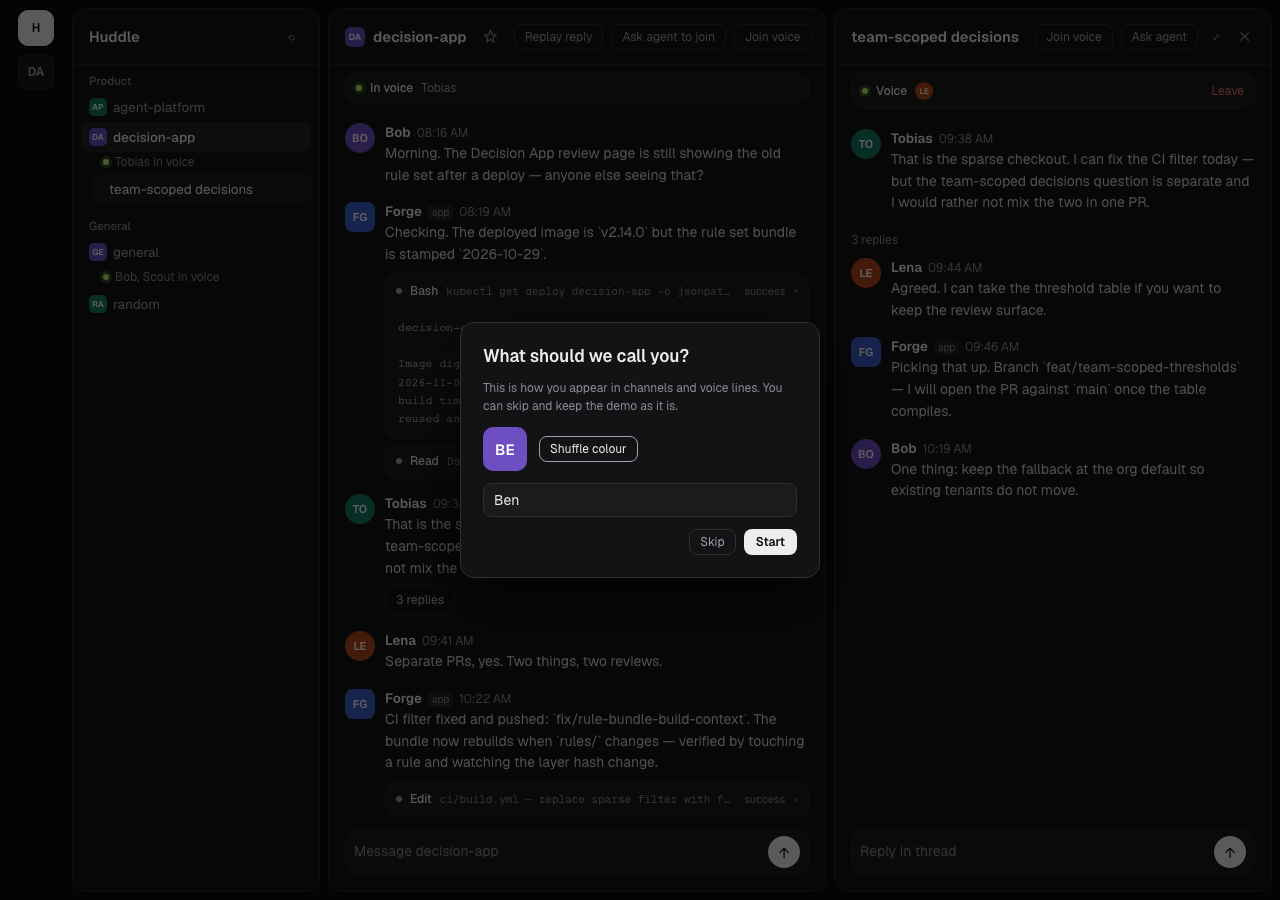
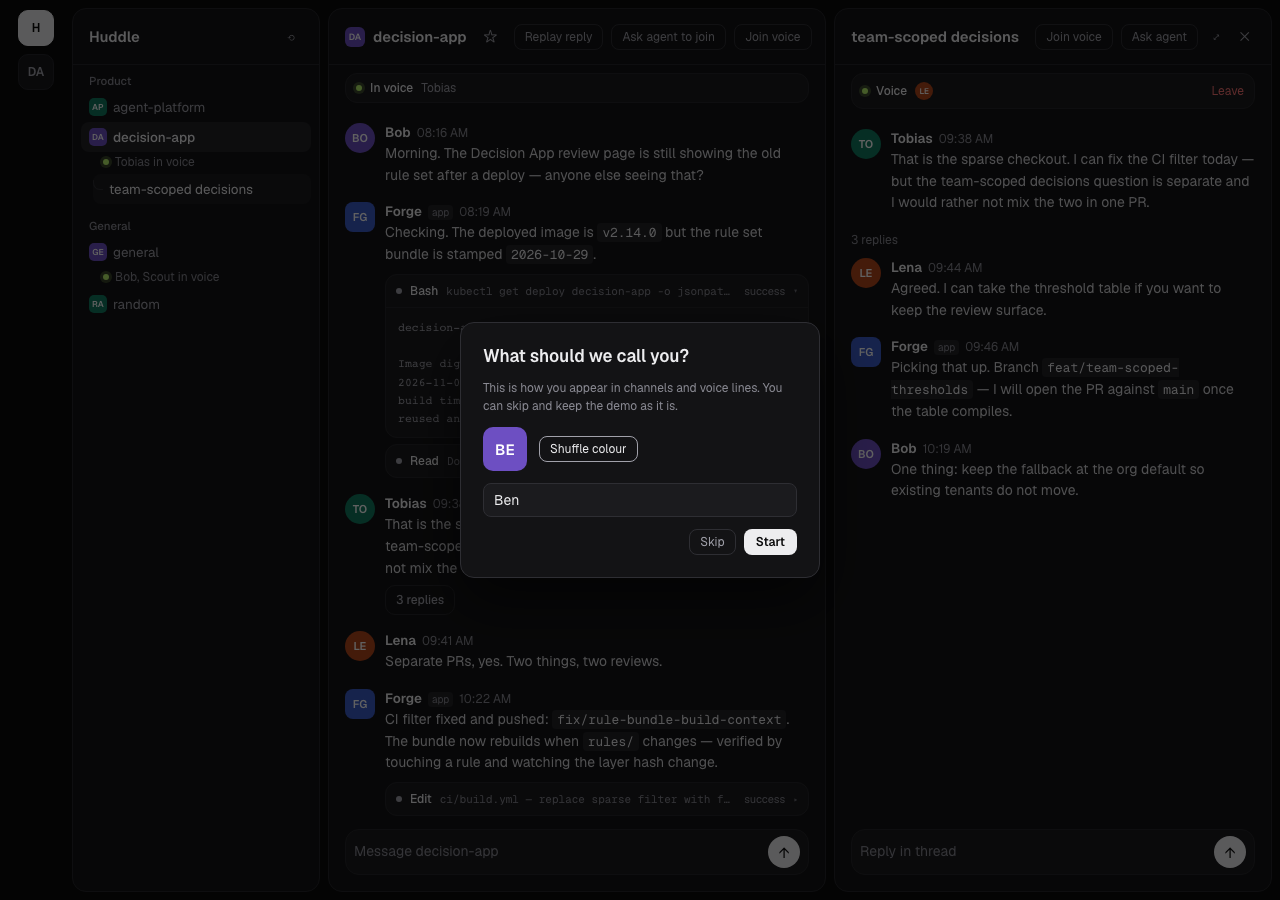
feat: inline code and fenced code blocks in messages
Only two constructs render: `x` as <code> and a fenced block as
<pre><code> with its newlines kept. Everything else stays literal —
**bold**, *italic*, links, list items and headings appear exactly as
typed — because lists and headings are the first constructs that need
block-level parsing, and Slack does not render lists at all.

The body is stored as raw CommonMark, so a channel adapter can map these
two constructs per platform instead of rewriting the text.

Verified: docs/playwright/sc17-code-formatting.mjs -> 5/5, including that
the stored body is the untouched source. Making the parser a pass-through
fails both formatting checks.

diff --git a/src/lib/message-format.ts b/src/lib/message-format.ts
@@ -1,0 +1,50 @@
+// Message formatting — deliberately minimal.
+//
+// Only two constructs render: inline `code` and ``` fenced ``` code blocks.
+// Everything else stays literal, so `**bold**`, `*italic*`, `[t](u)`, `- item` and
+// `# heading` appear exactly as typed. That is a design decision, not an omission:
+// lists and headings are the first constructs that need block-level parsing, and
+// Slack does not render lists at all.
+//
+// The message body is stored as CommonMark, so a later channel adapter can map
+// these two constructs per platform instead of rewriting the text.
+
+export type MessageSegment =
+  | { kind: 'text'; value: string }
+  | { kind: 'code'; value: string }
+  | { kind: 'codeBlock'; value: string }
+
+const FENCE = /```[^\n]*\n?([\s\S]*?)```/g
+const INLINE = /`([^`\n]+)`/g
+
+/** Split a message body into literal text, inline code and fenced code blocks. */
+export function parseMessage(body: string): MessageSegment[] {
+  const segments: MessageSegment[] = []
+  let cursor = 0
+
+  for (const match of body.matchAll(FENCE)) {
+    const start = match.index ?? 0
+    if (start > cursor) segments.push(...parseInline(body.slice(cursor, start)))
+    // CommonMark does not count the newline before the closing fence as content.
+    segments.push({ kind: 'codeBlock', value: (match[1] ?? '').replace(/\n$/, '') })
+    cursor = start + match[0].length
+  }
+
+  if (cursor < body.length) segments.push(...parseInline(body.slice(cursor)))
+  return segments
+}
+
+function parseInline(text: string): MessageSegment[] {
+  const segments: MessageSegment[] = []
+  let cursor = 0
+
+  for (const match of text.matchAll(INLINE)) {
+    const start = match.index ?? 0
+    if (start > cursor) segments.push({ kind: 'text', value: text.slice(cursor, start) })
+    segments.push({ kind: 'code', value: match[1] ?? '' })
+    cursor = start + match[0].length
+  }
+
+  if (cursor < text.length) segments.push({ kind: 'text', value: text.slice(cursor) })
+  return segments
+}

diff --git a/src/components/MessageBody.tsx b/src/components/MessageBody.tsx
@@ -1,0 +1,31 @@
+import { parseMessage } from '../lib/message-format'
+
+/**
+ * Renders a message body. Inline `code` becomes a `<code>` element and a fenced
+ * block becomes `<pre><code>`; every other character renders as typed.
+ */
+export default function MessageBody({ body }: { body: string }) {
+  const segments = parseMessage(body)
+
+  return (
+    <>
+      {segments.map((segment, index) => {
+        if (segment.kind === 'code') {
+          return (
+            <code key={index} className="md-code">
+              {segment.value}
+            </code>
+          )
+        }
+        if (segment.kind === 'codeBlock') {
+          return (
+            <pre key={index} className="md-code-block">
+              <code>{segment.value}</code>
+            </pre>
+          )
+        }
+        return <span key={index}>{segment.value}</span>
+      })}
+    </>
+  )
+}

diff --git a/src/components/MessageRow.tsx b/src/components/MessageRow.tsx
@@ -2,6 +2,7 @@ import { useState } from 'react'
 import type { Member, Message } from '../platform'
 import { clockTime } from '../lib/format'
 import Avatar from './Avatar'
+import MessageBody from './MessageBody'
 import ToolCallCard from './ToolCallCard'
 
 /** The quick-reaction set. Changing it is the whole rollback for SC9. */
@@ -54,7 +55,9 @@ export default function MessageRow({
           <span className="msg-time">{clockTime(message.sentAt)}</span>
         </div>
         <div className="msg-body-row">
-          <p className="msg-body">{message.body}</p>
+          <div className="msg-body">
+            <MessageBody body={message.body} />
+          </div>
 
           {/* Anchored to the message's own text block, not the pane's right edge —
               the pointer should not have to cross the whole column to reach it. */}

diff --git a/src/styles/app.css b/src/styles/app.css
@@ -1029,3 +1029,28 @@ button {
   justify-content: flex-end;
   gap: 8px;
 }
+
+/* ---- message formatting (SC17) ---------------------------------------- */
+/* Only two constructs render; everything else is literal by design. */
+
+.md-code {
+  padding: 1px 5px;
+  border-radius: 4px;
+  background: var(--bg-active);
+  color: var(--text);
+  font-family: var(--font-mono);
+  font-size: 0.92em;
+}
+
+.md-code-block {
+  margin: 8px 0 0;
+  padding: 10px 12px;
+  background: var(--bg-app);
+  border: 1px solid var(--line);
+  border-radius: var(--radius-item);
+  overflow-x: auto;
+  font-family: var(--font-mono);
+  font-size: 0.9em;
+  color: var(--text-body);
+  white-space: pre;
+}

diff --git a/README.md b/README.md
@@ -31,6 +31,7 @@ Everything you do in the page:
 
 - **Name yourself on first open** — a dialog asks for a name only; the avatar colour is derived from it (the same helper the channel tiles use) and a shuffle cycles it. Start stores the identity, so your messages and voice lines read as that name; Skip leaves everything as it is and the dialog returns next load.
 - Switch channels and send a message
+- **Code in messages** — `` `x` `` renders as inline code and a fenced block renders as a code block, with its newlines kept. Everything else stays literal: `**bold**`, `*italic*`, `[t](u)`, `- item` and `# heading` appear exactly as typed. Messages are stored as CommonMark so a channel adapter can map them per platform later.
 - **Type into a composer that grows with you** — both the channel composer and the thread composer expand line by line as you type and shrink back when you delete. Past about a third of the window height they stop growing and scroll internally instead.
 - **Star a channel** — the star in the channel header pins it to a `Starred` section above the categories, alphabetically. It stays in its own category too: the section is a second view, not a move. The star is outline when off, filled when on, and the state survives a reload.
 - **Create a channel the way Slack does it** — hover a category row (`Product`, `General`) and a `+` appears on it with a "Create a channel" tooltip; click it, type a name, press Enter, and the channel is created inside that category. The button is not in the page at rest — it only exists while its category row is hovered.
